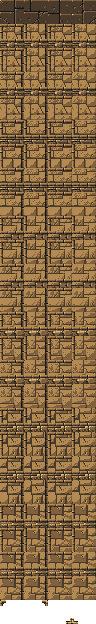
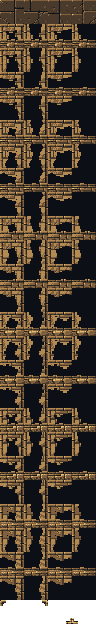
Blend terrain materials into shared dark wall interiors
Add authored native PNG blend masks and sparse material infill, guided by Celeste edge/padding/core research. Stone and earth interlock on floors and exposed walls; deep solids share a flat near-black core. Preserve the top-down angle, palette, sprite/theme gates, collision maps and Defend.

Update render.golden.json and render-calls.golden.json for the 20 intended interior sprite frames; 85 other frames and all 84 base floor variants are unchanged. Production build, PNG/browser checks and 1197 non-Defend tests pass (one CI-only skip).

diff --git a/src/sprite-dungeon.ts b/src/sprite-dungeon.ts
@@ -3,6 +3,7 @@ import { tileRandom } from "./random.ts";
 import { themeAt, type TerrainTile } from "./themes.ts";
 import { kitImage } from "./sprite-kit.ts";
 import { wallAdjacencyMask } from "./area1-tileset.ts";
+import type { DungeonWallDepth } from "./wall-depth.ts";
 
 export const DUNGEON_MATERIALS = ["masonry", "stone", "earth"] as const;
 export type DungeonMaterial = typeof DUNGEON_MATERIALS[number];
@@ -20,6 +21,9 @@ export const dungeonAtlasId = (material: DungeonMaterial, tone: number) => mater
 export const DUNGEON_ATLASES = [...["masonry", "stone"].flatMap(material =>
   Array.from({ length: DUNGEON_TONES }, (_, tone) => dungeonAtlasId(material as DungeonMaterial, tone))), "dungeon-earth"];
 export const DUNGEON_EDGE_ATLAS = "dungeon-edges";
+export const DUNGEON_BLEND_ATLAS = "dungeon-blends";
+export const DUNGEON_INFILL_ATLAS = "dungeon-infill";
+export const DUNGEON_CORE_FRAME = 12;
 
 /** Smooth, coordinate-hashed material patches, independent of generation
  * and its random stream. Both wall and floor at a position share material. */
@@ -52,8 +56,42 @@ function imagesFor(mode: Mode, tone: number) {
   const ids = mode === "tower" ? [dungeonAtlasId("masonry", tone), DUNGEON_EDGE_ATLAS]
     : [dungeonAtlasId("stone", tone), "dungeon-earth", DUNGEON_EDGE_ATLAS];
   // Request the complete group even when the first image is delayed.
+  ids.push(DUNGEON_INFILL_ATLAS, DUNGEON_BLEND_ATLAS);
   const images = ids.map(kitImage);
-  return images.every(Boolean) ? images : null;
+  return images.every(Boolean) ? { surface: images[0]!, earth: images[mode === "delve" ? 1 : 0]!, edges: images.at(-3)!, infill: images.at(-2)!, blends: images.at(-1)! } : null;
+}
+
+/** Earth crosses the material seam in authored stepped clusters. Wall
+ * joins require solid neighbors; floor joins never cross a blocking wall. */
+export function dungeonMaterialJoins(tile: TerrainTile, diagonals: readonly DungeonDiagonal[]) {
+  const { mode, x, y, seed, wall, neighbors: n } = tile;
+  let sides = 0, corners = 0;
+  if (dungeonMaterial(mode, x, y, seed) !== "stone") return { sides, corners };
+  const wallMask = wallAdjacencyMask({ northWall: !!n?.northWall, eastWall: !!n?.eastWall, southWall: !!n?.southWall, westWall: !!n?.westWall });
+  for (const [bit, dx, dy] of [[1, 0, 1], [2, 1, 0], [4, 0, -1], [8, -1, 0]])
+    if (!!(wallMask & bit) === wall && dungeonMaterial(mode, x + dx, y + dy, seed) === "earth") sides |= bit;
+  for (let corner = 0; corner < 4; corner++) {
+    const adjacent = [9, 3, 6, 12][corner], [dx, dy] = DUNGEON_CORNERS[corner];
+    const earth = wall ? diagonals[corner] === "wall" && dungeonMaterial(mode, x + dx, y + dy, seed) === "earth" : diagonals[corner] === "earth";
+    if (earth && !(sides & adjacent) && (wall ? (wallMask & adjacent) === adjacent : !(wallMask & adjacent))) corners |= 1 << corner;
+  }
+  return { sides, corners };
+}
+
+const materialBlends = new Map<string, HTMLCanvasElement>();
+function drawMaterialBlend(c: CanvasRenderingContext2D, image: HTMLImageElement, frame: number, mask: HTMLImageElement, maskFrame: number) {
+  if (typeof document === "undefined") return;
+  const key = `${image.src}:${frame}:${maskFrame}`;
+  let canvas = materialBlends.get(key);
+  if (!canvas) {
+    canvas = document.createElement("canvas"); canvas.width = canvas.height = 24;
+    const ctx = canvas.getContext("2d"); if (!ctx) return;
+    drawDungeonFrame(ctx, image, frame);
+    ctx.globalCompositeOperation = "destination-in"; drawDungeonFrame(ctx, mask, maskFrame);
+    if (materialBlends.size >= 512) materialBlends.clear();
+    materialBlends.set(key, canvas);
+  }
+  c.save(); c.imageSmoothingEnabled = false; c.drawImage(canvas, 0, 0); c.restore();
 }
 
 export function drawDungeonFrame(c: CanvasRenderingContext2D, image: HTMLImageElement, frame: number) {
@@ -65,16 +103,25 @@ export function drawDungeonFrame(c: CanvasRenderingContext2D, image: HTMLImageEl
 /** Four quiet floors, six variants of sixteen wall shapes, and corners.
  * South-facing facades occupy eight pixels; north/side lips are shallow.
  * Everything stays inside the existing tile and collision footprint. */
-export function drawDungeonGround(c: CanvasRenderingContext2D, tile: TerrainTile, diagonals: readonly DungeonDiagonal[] = []) {
+export function drawDungeonGround(c: CanvasRenderingContext2D, tile: TerrainTile, diagonals: readonly DungeonDiagonal[] = [], depth: DungeonWallDepth = 0) {
   const { mode, height, x, y, seed } = tile, tone = themeAt(mode, height, x, y, seed).decor;
   const images = imagesFor(mode, tone);
   if (!images) return false;
   const material = dungeonMaterial(mode, x, y, seed);
-  const image = material === "earth" ? images[1]! : images[0]!;
-  const edges = images.at(-1)!;
+  const image = material === "earth" ? images.earth : images.surface;
+  if (tile.wall && depth) {
+    const frame = depth === 2 ? DUNGEON_CORE_FRAME : DUNGEON_MATERIALS.indexOf(material) * 4 + dungeonWallVariant(x, y, seed) % 4;
+    drawDungeonFrame(c, images.infill, frame); return true;
+  }
+  const edges = images.edges;
   const n = tile.neighbors;
   const mask = wallAdjacencyMask({ northWall: !!n?.northWall, eastWall: !!n?.eastWall, southWall: !!n?.southWall, westWall: !!n?.westWall });
-  drawDungeonFrame(c, image, tile.wall ? DUNGEON_WALL_FRAME + dungeonWallVariant(x, y, seed) * 16 + mask : dungeonFloorFrame(x, y, seed));
+  const frame = tile.wall ? DUNGEON_WALL_FRAME + dungeonWallVariant(x, y, seed) * 16 + mask : dungeonFloorFrame(x, y, seed);
+  drawDungeonFrame(c, image, frame);
+  const joins = dungeonMaterialJoins(tile, diagonals), blendVariant = dungeonWallVariant(x, y, seed) % 4;
+  if (joins.sides) drawMaterialBlend(c, images.earth, frame, images.blends, blendVariant * 20 + joins.sides);
+  for (let corner = 0; corner < 4; corner++) if (joins.corners & (1 << corner))
+    drawMaterialBlend(c, images.earth, frame, images.blends, blendVariant * 20 + 16 + corner);
   if (tile.wall) {
     for (let corner = 0; corner < 4; corner++) {
       const diagonal = diagonals[corner];
@@ -86,17 +133,6 @@ export function drawDungeonGround(c: CanvasRenderingContext2D, tile: TerrainTile
     }
   }
   if (!tile.wall) {
-    if (material === "stone") {
-      const earth = (dx: number, dy: number, wall?: boolean) => !wall && dungeonMaterial(mode, x + dx, y + dy, seed) === "earth";
-      const soilMask = wallAdjacencyMask({ northWall: earth(0, 1, n?.northWall), eastWall: earth(1, 0, n?.eastWall),
-        southWall: earth(0, -1, n?.southWall), westWall: earth(-1, 0, n?.westWall) });
-      if (soilMask) drawDungeonFrame(c, edges, soilMask);
-      for (let corner = 0; corner < 4; corner++) {
-        const adjacent = [9, 3, 6, 12][corner];
-        if (diagonals[corner] === "earth" && !(soilMask & adjacent) && !(mask & adjacent))
-          drawDungeonFrame(c, edges, DUNGEON_SOIL_CORNER_FRAME + corner);
-      }
-    }
     if (mask) drawDungeonFrame(c, edges, DUNGEON_CONTACT_FRAME + mask);
   }
   return true;

diff --git a/tests/dungeon-sprites.test.ts b/tests/dungeon-sprites.test.ts
@@ -1,7 +1,8 @@
 import assert from "node:assert/strict";
 import { readFileSync } from "node:fs";
 import test from "node:test";
-import { DUNGEON_ATLASES, DUNGEON_EDGE_ATLAS, DUNGEON_CORNER_FRAME, drawDungeonGround, dungeonAtlasId, dungeonDiagonals, dungeonFloorFrame, dungeonMaterial, dungeonWallVariant } from "../src/sprite-dungeon.ts";
+import { DUNGEON_ATLASES, DUNGEON_EDGE_ATLAS, DUNGEON_BLEND_ATLAS, DUNGEON_INFILL_ATLAS, DUNGEON_CORNER_FRAME, drawDungeonGround, dungeonAtlasId, dungeonDiagonals, dungeonFloorFrame, dungeonMaterial, dungeonMaterialJoins, dungeonWallVariant } from "../src/sprite-dungeon.ts";
+import { dungeonWallDepth } from "../src/wall-depth.ts";
 import { paintTile, type BoardLook } from "../src/tile-painters.ts";
 import { WaterReflections, type ReflectionScene } from "../src/decor-reflections.ts";
 import type { TileDecor } from "../src/decor.ts";
@@ -9,11 +10,25 @@ import type { TileDecor } from "../src/decor.ts";
 test("interior PNGs contain native 24-pixel floors, all sixteen wall joins and shared transition masks", () => {
   const manifest = JSON.parse(readFileSync(new URL("../public/assets/style/manifest.json", import.meta.url), "utf8"));
   assert.equal(DUNGEON_ATLASES.length, 21);
-  for (const id of [...DUNGEON_ATLASES, DUNGEON_EDGE_ATLAS]) {
+  for (const id of [...DUNGEON_ATLASES, DUNGEON_EDGE_ATLAS, DUNGEON_BLEND_ATLAS, DUNGEON_INFILL_ATLAS]) {
     const bytes = readFileSync(new URL(`../public/assets/style/${id}.png`, import.meta.url));
-    assert.deepEqual([bytes.readUInt32BE(16), bytes.readUInt32BE(20)], [96, id === DUNGEON_EDGE_ATLAS ? 216 : 624], id);
+    const height = id === DUNGEON_EDGE_ATLAS ? 216 : id === DUNGEON_BLEND_ATLAS ? 480 : id === DUNGEON_INFILL_ATLAS ? 96 : 624;
+    assert.deepEqual([bytes.readUInt32BE(16), bytes.readUInt32BE(20)], [96, height], id);
     assert.equal(manifest.assets[id].tile, true);
   }
+});
+
+test("wall depth follows real air across materials, including diagonals, while missing cells remain solid", () => {
+  for (const kind of ["floor", "door", "stairs", "enemy"] as const) {
+    const world = { tile: (x: number, y: number) => ({ kind: x === 0 && y === 0 ? kind : "wall" as const }) };
+    assert.equal(dungeonWallDepth(world, 1, 0), 0);
+    assert.equal(dungeonWallDepth(world, 1, 1), 0, "diagonal air exposes an inner corner");
+    assert.equal(dungeonWallDepth(world, 2, 0), 1);
+    assert.equal(dungeonWallDepth(world, 2, 2), 1);
+    assert.equal(dungeonWallDepth(world, 3, 0), 2);
+    assert.equal(dungeonWallDepth(world, 3, 3), 2);
+  }
+  assert.equal(dungeonWallDepth({ tile: () => undefined }, 0, 0), 2, "world bounds do not create a false bright edge");
 });
 
 test("Delve stone and earth form repeatable contiguous patches rather than independent tile noise", () => {
@@ -103,11 +118,12 @@ test("wall variation is seeded, diagonal corners read real openings, and corner 
     assert.ok(at);
     const floor = { mode: "delve" as const, height: 0, seed, ...at, wall: false, empty: true };
     frames.length = 0;
-    drawDungeonGround(c, floor, ["earth", "earth", "earth", "earth"]);
-    assert.deepEqual(frames.slice(1), [32, 33, 34, 35], "diagonal earth joins receive their matching soil PNGs");
-    frames.length = 0;
-    drawDungeonGround(c, { ...floor, neighbors: { northWall: true, eastWall: true, southWall: true, westWall: true } }, ["earth", "earth", "earth", "earth"]);
-    assert.ok(frames.every(frame => frame < 32), "soil corners cannot cross a wall");
+    assert.deepEqual(dungeonMaterialJoins(floor, ["earth", "earth", "earth", "earth"]), { sides: 0, corners: 15 });
+    assert.deepEqual(dungeonMaterialJoins({ ...floor, neighbors: { northWall: true, eastWall: true, southWall: true, westWall: true } }, ["earth", "earth", "earth", "earth"]), { sides: 0, corners: 0 }, "soil corners cannot cross a wall");
+    for (const depth of [1, 2] as const) {
+      frames.length = 0; drawDungeonGround(c, tile, [], depth);
+      assert.deepEqual(frames, [depth === 2 ? 12 : 0], "padding and core use the shared infill PNG");
+    }
   } finally {
     if (original) Object.defineProperty(globalThis, "Image", original); else Reflect.deleteProperty(globalThis, "Image");
   }

diff --git a/src/tile-painters.ts b/src/tile-painters.ts
@@ -18,6 +18,7 @@ import { COMBAT_MARKS } from "./sprite-combat.ts";
 import { drawKitTerrain } from "./sprite-terrain.ts";
 import { themedTileUrl } from "./themed-tilesets.ts";
 import { drawDungeonGround, dungeonDiagonals } from "./sprite-dungeon.ts";
+import { dungeonWallDepth } from "./wall-depth.ts";
 
 // Everything here paints in 24x24 tile space: the caller translates and
 // scales the context to the tile first.
@@ -86,7 +87,7 @@ function paintGround(c: CanvasRenderingContext2D, world: TileWorld, t: Tile, x: 
   const wall = t.kind === "wall";
   const terrain = { mode: look.mode, height: look.height, seed: look.seed, x, y, wall, empty: t.kind === "floor", neighbors };
   if (look.styledSprites && !look.spritesOff && drawDungeonGround(c, terrain,
-    dungeonDiagonals(world, look.mode, x, y, look.seed))) return true;
+    dungeonDiagonals(world, look.mode, x, y, look.seed), wall ? dungeonWallDepth(world, x, y) : 0)) return true;
   // Every biome has a PNG floor/wall set. Images load asynchronously; until
   // ready (or if an asset fails), the procedural renderer remains a complete
   // fallback and the Sprites setting can still opt out of bitmap art.

diff --git a/src/decor-render.ts b/src/decor-render.ts
@@ -6,6 +6,7 @@ import { DecorBaker, paintKitFlower, paintKitPlant } from "./decor-bake.ts";
 import { DecorEffects, type EffectFrame, type TileAt } from "./decor-effects.ts";
 import { WaterReflections, type MirroredSprites, type ReflectionScene, type Wave } from "./decor-reflections.ts";
 import { kitImage, spriteRevision } from "./sprite-kit.ts";
+import { dungeonWallDepth } from "./wall-depth.ts";
 import { FLOWER_LIGHTS, FLOWER_SPRITES, GLOWCAP_LIGHT, GLOWCAP_SPRITES } from "./sprite-environment.ts";
 import { drawBlades, drawCrates, DRIP_FALL, dripNow, dripRings, PixelBatch, ring, type DripNow, type Sway } from "./decor-sprites.ts";
 
@@ -96,6 +97,7 @@ export class DecorLayer {
    * units (0..24), for the renderer's cached ground. False while the tile
    * is still waiting to be planned. */
   bakeTile(c: CanvasRenderingContext2D, x: number, y: number, styled = false) {
+    if (styled && this.world?.tile(x, y)?.kind === "wall" && dungeonWallDepth(this.world, x, y) === 2) return true;
     const d = this.plan(x, y);
     if (!d) return false;
     if (d.empty) return true;

diff --git a/src/wall-depth.ts b/src/wall-depth.ts
@@ -1,0 +1,14 @@
+import type { Tile } from "./entities.ts";
+
+export type DungeonWallDepth = 0 | 1 | 2;
+
+/** All materials form one solid mass. Missing world cells are solid too.
+ * The first ring is exposed, the second is sparse padding, the rest black. */
+export function dungeonWallDepth(world: { tile(x: number, y: number): Tile | undefined }, x: number, y: number): DungeonWallDepth {
+  for (const radius of [1, 2] as const) for (let dy = -radius; dy <= radius; dy++) for (let dx = -radius; dx <= radius; dx++) {
+    if (Math.max(Math.abs(dx), Math.abs(dy)) !== radius) continue;
+    const tile = world.tile(x + dx, y + dy);
+    if (tile && tile.kind !== "wall") return radius === 1 ? 0 : 1;
+  }
+  return 2;
+}

diff --git a/docs/art/ui-sprites.md b/docs/art/ui-sprites.md
@@ -65,15 +65,22 @@ The forest loads its materials and foliage together before removing the older ba
 The old SVG and PNG artwork stays available for unloaded images, Sprites off and theme overrides.
 Tower interiors use native fitted masonry floors and connected walls; Delve uses rough bedrock and compact earth for both floors and walls, with coordinate-hashed contiguous material patches.
 The [dungeon material source](../../assets/game-sprites/dungeon-materials.png) supplies four floor variations, wall-top variations, south-facing facade strips and coping for each material, plus stepped soil/contact strips.
-Twenty-one 96 × 624 deployed PNG atlases hold four floors, six variations of sixteen wall-neighbor frames and four corner overlays each; one shared 96 × 216 PNG holds sixteen soil borders, sixteen floor-contact masks and four diagonal soil corners (2,220 native frames total).
+Twenty-one 96 × 624 deployed PNG atlases hold four floors, six variations of sixteen wall-neighbor frames and four corner overlays each.
+One shared 96 × 216 PNG retains sixteen soil borders, sixteen floor-contact masks and four diagonal soil corners.
+Two additional atlases add eighty material masks and sixteen infill/core frames (2,316 native frames total).
 The [wall variation source](../../assets/game-sprites/dungeon-wall-variations.png) supplies six distinct top/facade pairs per material: broad fitted masonry, continuous bedrock with sparse fractures and layered earth with embedded stones.
 Keep bedrock surfaces continuous and quiet rather than outlining every stone as separate cobbles; top and south-facing facade variations share a seed choice and fixed lighting.
-Wall tops use restricted muted ramps (two slate tones for bedrock, three for masonry/earth), while the south-facing facades keep deeper shading for clear height.
+Exposed wall tops use restricted muted ramps (two slate tones for bedrock, three for masonry/earth), while the south-facing facades keep deeper shading for clear height.
 The [corner source](../../assets/game-sprites/dungeon-corners.png) supplies northwest, northeast, southeast and southwest masonry, stone and earth corner insets, plus four flat soil corner patches.
 Corner pieces occupy six native pixels at the corresponding tile corner and retain upper-left lighting in every orientation; wall tops vary by seed without rotating or stretching the artwork.
 Ten palette ramps retain each masonry and rock biome's identity, while earth keeps its brown ramp; slate and earth extraction use restricted material palettes to avoid stray green or red noise.
 Use axis-aligned 24-pixel tiles seen at a steep top-down angle, visible wall tops, shallow three-pixel north/side lips and eight-pixel south-facing wall facades; no isometric diamonds or vanishing points.
 Connected walls hide shared edges, and floor centers remain quiet and flat beneath items; soil borders have stepped binary transparency and contact shadows stay inside the floor tile.
+The [material blend source](../../assets/game-sprites/dungeon-material-blends.png) adds sparse dark padding and four stepped transition silhouettes.
+The [Celeste tileset analysis](https://aran.ink/posts/celeste-tilesets) informed the edge/padding/core treatment: material detail hugs exposed surfaces, dark fragments bridge the inward edge, and deep solids share one flat near-black fill.
+Our original PNGs retain the angled top-down perspective and native 24-pixel grid; wall depth follows actual open tiles across all materials.
+Earth overlaps stone through binary PNG masks on floors and exposed walls, replacing square material seams without blur, dithering or a rim between connected walls.
+The shared core is the existing palette color `#0c1016`, fixed across materials and biome ramps; do not texture deep cores or cover them with moss.
 The older palette-normalized terrain atlas remains a complete loading fallback; Sprites off and other Game themes keep their original artwork.
 Equipment's existing Unique silhouettes and the named enemy roster are preserved during normalization.
 Small dressing (plants, cobwebs, pebbles and broken containers) uses 12-pixel PNGs drawn 1:1 inside the same 24-pixel tile grid.
@@ -126,7 +133,7 @@ Run `node --experimental-transform-types tools/prepare-combat-sprites.mjs` for t
 Run `node --experimental-transform-types tools/prepare-board-marks.mjs` for Target, Ignore, skipped and blocked marks.
 Run `node --experimental-transform-types tools/prepare-environment-sprites.mjs` for moss, water, vine leaves, flowers and glowing cap variants.
 Run `node --experimental-transform-types tools/prepare-forest-sprites.mjs` for the twenty forest materials/objects and two enormous entrance bases; measured crops, binary alpha and palette normalization reproduce the deployed PNGs.
-Run `node --experimental-transform-types tools/prepare-dungeon-sprites.mjs` for the interior material atlases, all six connected-wall variants and the cardinal/diagonal soil, corner and contact pieces.
+Run `node --experimental-transform-types tools/prepare-dungeon-sprites.mjs` for the interior material atlases, all six connected-wall variants, ragged material masks, dark padding/core, and the cardinal/diagonal corner and contact pieces.
 Regenerate the original font with `python tools/prepare-pixel-font.py` using FontTools with WOFF2 support (`fonttools[woff]`); no font-building dependency is needed at runtime.
 The full game exporter preserves dungeon, forest, environment, combat, badge, Shrine, Equipment UI and UI-detail assets; rerun their own exporter when a source atlas changes.
 That exporter also packs the terrain atlas and produces `src/sprite-terrain-index.ts`.

diff --git a/docs/agents/rendering.md b/docs/agents/rendering.md
@@ -33,11 +33,19 @@ Sprites off, board sprites off and other Game themes retain their original fores
 Twenty-one 96 × 624 atlases contain four 24-pixel floor variants, six versions of all sixteen wall-neighbor masks and four native six-pixel corner overlays: ten biome ramps for masonry, ten for rough stone and one brown earth set.
 `dungeonWallVariant` chooses six authored top and south-facing facade pairs by coordinate hash, so long connected walls have seeded variety without rotating their lighting or altering geometry.
 Masonry varies broad fitted blocks and worn joints; bedrock uses continuous quiet planes with sparse fractures, while earth varies compact layers and embedded stone.
-A shared 96 × 216 atlas supplies sixteen stepped soil-edge masks, sixteen contact-shadow masks and four diagonal soil corners, with transparent centers that leave items and movement targets readable.
+A shared 96 × 216 atlas retains the original contact-shadow masks and soil reference pieces.
+`dungeon-blends.png` supplies four variants of sixteen cardinal masks and four diagonal patches each (96 × 480), with stepped binary-alpha contours and clear centers.
+`dungeonMaterialJoins` overlays the neighboring earth PNG through those masks on both floors and exposed stone walls, reusing the selected frame and preserving blocked boundaries.
+Masked material bakes are cached with a 512-entry limit; no gradients, soft alpha or runtime color interpolation are used.
 `dungeonDiagonals` reads the four actual diagonal tiles only in the active kit; the overlays address northwest, northeast, southeast and southwest inside their existing collision tile.
 Wall corners draw only where a diagonal opening meets two joined or two exposed sides; straight edges and missing diagonal terrain retain their existing lips.
-Diagonal soil corners draw where earth touches a stone floor at the corner without an intervening wall or an existing cardinal soil border.
+Diagonal material patches draw where earth touches stone at a corner without an existing cardinal blend or a change between open floor and blocking wall.
 Walls expose shallow three-pixel north/side lips and eight-pixel south-facing facades, keeping a steep top-down angle inside the existing collision tile; joined sides have no facade.
+The authored fringe masks also break up the inward boundary of exposed wall strips against a common near-black fill.
+`wall-depth.ts` checks two Chebyshev rings of actual world tiles: neighboring air exposes the wall, air two tiles away selects sparse dark padding, and farther interiors use a flat shared near-black PNG.
+Every material counts as connected solid, missing cells remain solid, and doors/items/stairs count as air; generation and collision are unchanged.
+`dungeon-infill.png` holds three sparse padding variations plus one empty choice per material and a common core (96 × 96); no biome tint changes the shared core.
+The styled decor bake skips core walls so moss cannot repaint their flat interiors; Sprites off and other Game themes retain their original decor.
 `paintGround` returns after drawing these native tiles, so old procedural quoins cannot add off-palette corners over the new walls.
 Each material group loads completely before replacing the fallback, and `spriteRevision` refreshes the ground cache as its PNGs arrive.
 `dungeonFloorSprite` extracts each selected native floor frame once for first-section torch relief; `floor-relief.ts` accepts image or canvas sources, and `LightingPass` invalidates its torch bakes when kit style or image revision changes.
@@ -45,7 +53,8 @@ Changing Sprites or Game themes on a live renderer therefore restores matching t
 The water mirror receives the effective board-art key too, refreshing cached walls, hero and torch snapshots immediately when sprites or board art change.
 `tools/prepare-dungeon-sprites.mjs` extracts the material components, assembles connected walls and edge masks, and maps all twenty biome variations into the existing palette, without changing the older atlas or Defend.
 Its corner components come from `assets/game-sprites/dungeon-corners.png`, sharing the existing native grid, upper-left light and restricted material ramps.
-Its six top/facade pairs per material come from `assets/game-sprites/dungeon-wall-variations.png`; floor, coping, corner and transition components retain their existing sources.
+Its six top/facade pairs per material come from `assets/game-sprites/dungeon-wall-variations.png`; floor, coping and corner components retain their existing sources.
+The dark infill and stepped blend masks come from `assets/game-sprites/dungeon-material-blends.png`.
 
 Board drawing (`Renderer`, frames, lighting, decor, popups, tile caches, the forest outside, weather), the render goldens, and the Medieval and Neon themes.
 

diff --git a/docs/agents/testing.md b/docs/agents/testing.md
@@ -49,6 +49,6 @@ The appended `spriteForestTower` and `spriteForestDelve` scenes add ten browser 
 `tests/dungeon-sprites-browser.mjs` starts its own server for literal floor/relief PNG texels, transparent transition centers, native atlases, delayed/failed material loads and real Tower/Delve interiors at phone/desktop widths.
 It changes sprite, board, decoration and independent theme settings on a reused Renderer, verifies exact legacy-pixel restoration and checks that drawing never changes tiles; its monotonically advancing warmup settles the Delve camera and older image caches before comparing frames.
 `tests/dungeon-sprites.test.ts` checks atlas dimensions, contiguous stone/earth patches and all sixteen native wall-frame selections across six seeded variants, including the floor under items and doors.
-It also checks seeded wall variation, diagonal opening queries, convex/concave corner eligibility, straight-side and world-edge exclusions, and soil corner patches staying out of walls.
-The browser suite checks all six distinct joined-wall textures and south-facing facades and the visible alpha/bounds of every six-pixel corner in all material/biome atlases, then reviews the expanded native sheets.
+It also checks seeded wall variation, two-ring wall depth, diagonal opening queries, convex/concave corner eligibility, straight-side and world-edge exclusions, and material patches staying out of blocking walls.
+The browser suite checks six distinct exposed north rims and south-facing facades, flat shared black cores, sparse dark padding, literal masked material texels, clear blend centers and six-pixel corner bounds, then reviews the expanded native sheets.
 The appended `spriteDungeonMasonry` and `spriteDungeonCave` golden scenes cover real interior layouts; the existing `spriteCombat` and `spriteEnvironment` frames change only for the intended new ground/relief.

diff --git a/docs/gameplay/first-steps.md b/docs/gameplay/first-steps.md
@@ -19,7 +19,8 @@ Grass still moves around the hero; turning environmental decoration off hides th
 Inside the Tower, the Classic sprite kit uses fitted stone floors and joined masonry walls with visible tops and south-facing wall faces.
 In the Delve, rough stone and packed earth form adjoining patches of floors and walls, with stepped soil edges and matching biome colors.
 Walls have six variations of their tops and south-facing faces, with fitted masonry, broad fractured bedrock or packed earth, plus matching diagonal corner pieces.
-Soil joins also follow diagonal contact between floor patches.
+Earth and stone interlock at their edges and diagonal joins on both floors and exposed walls.
+Wall detail stays near open ground, then recedes through sparse dark fragments into a shared black interior deeper inside solid terrain.
 These interior tiles remain with environmental decoration off; torchlight follows the selected floor's seams, and movement, doors and map layouts stay the same.
 
 ## The first runs
